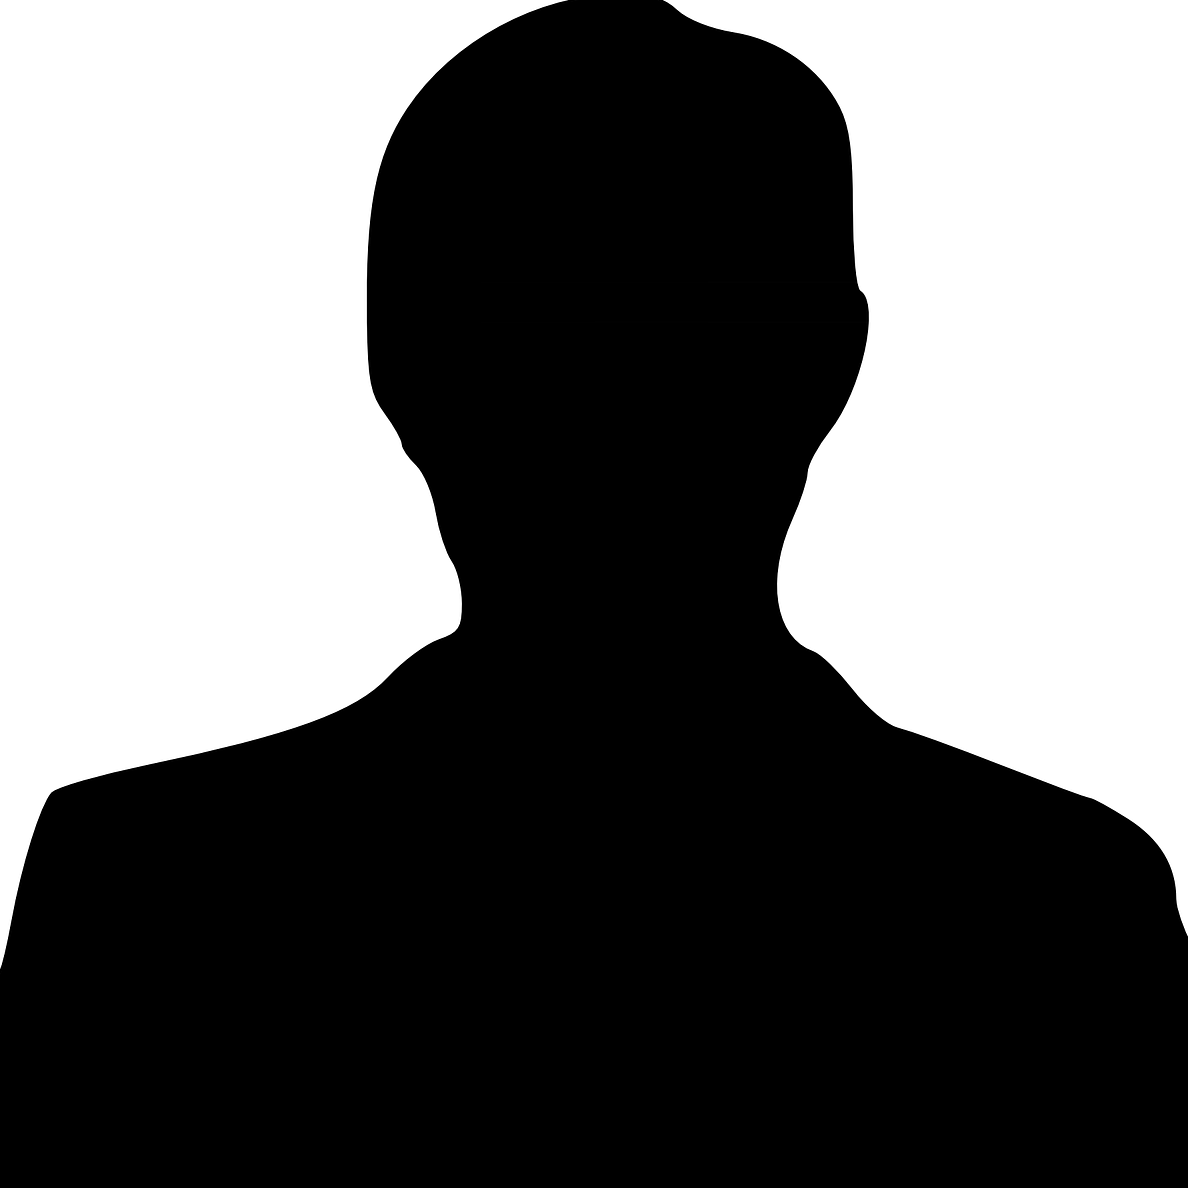
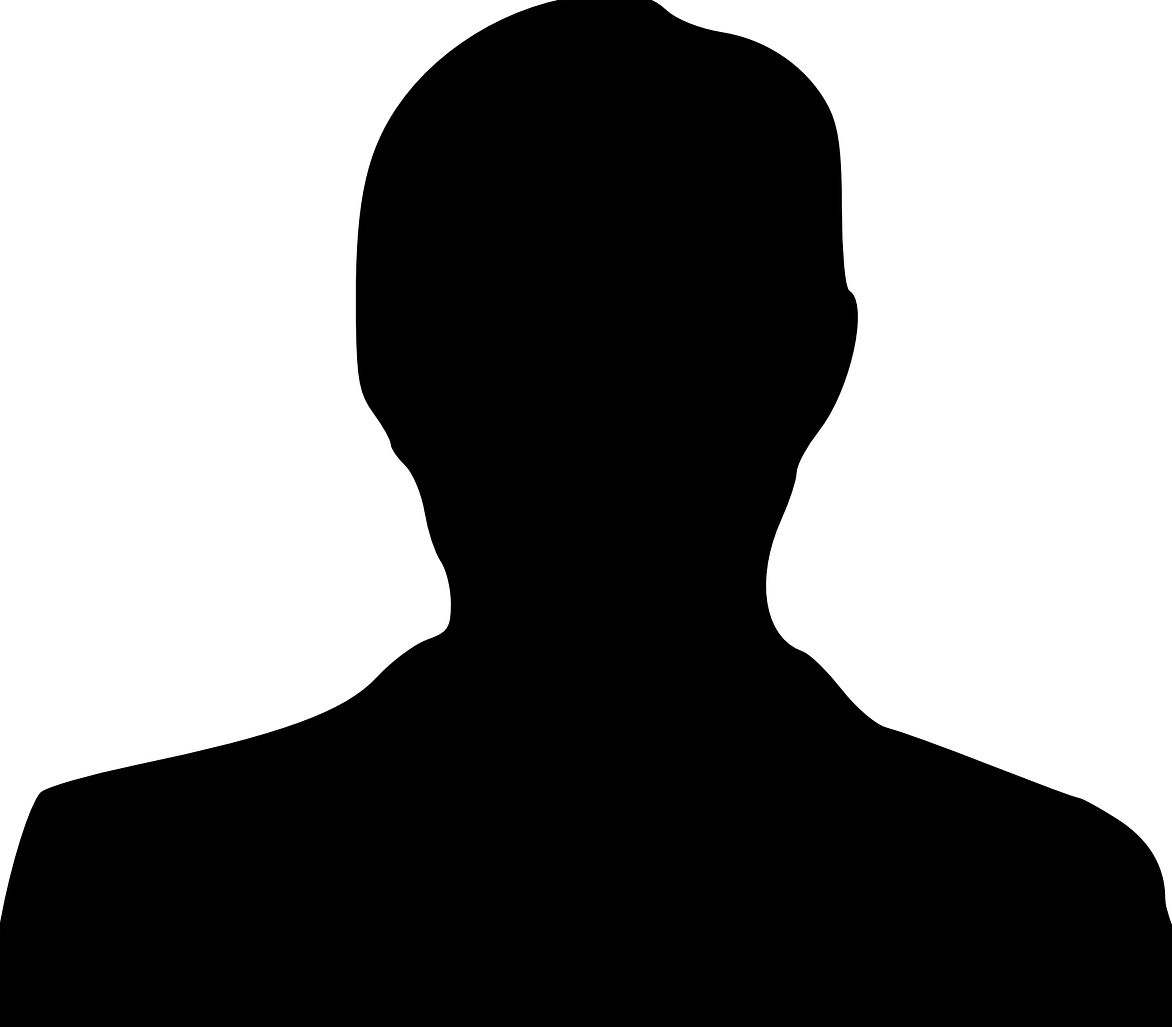
fix image size

diff --git a/public/content/aboutcontent.html b/public/content/aboutcontent.html
@@ -10,7 +10,7 @@
                 </div>
                 <div class="col-sm-4 text-center">
                     <div class = "team-box">
-                        <img class="img-responsive img-circle" src="img/silhouette2.png" alt="" style="margin: auto;">
+                        <img class="img-responsive img-circle" src="img/silhouette2.png" alt="" style="height:271px; max-height: 336px; max-width:336px; width: 263px; margin:auto;">
                         <h3>Shu
                         </h3>
                         <h5>Stylist
@@ -26,14 +26,12 @@
                             </div>
 
                         </div>
-                    </div>
-                        
-                    
-                    
+                    </div> 
                 </div>
+
                 <div class="col-sm-4 text-center">
                     <div class = "team-box">
-                        <img class="img-responsive img-circle" src="img/silhouette1.png" alt="" style="margin: auto;">
+                        <img class="img-responsive img-circle" src="img/silhouette1.png" alt="" style="height:271px; max-height: 336px; max-width:336px; width: 263px; margin:auto;">
                         <h3>Michael
                         </h3>
                         <h5>Stylist
@@ -51,9 +49,10 @@
                         </div>
                     </div>
                 </div>
+
                 <div class="col-sm-4 text-center">
                     <div class = "team-box">
-                        <img class="img-responsive img-circle" src="img/silhouette2.png" alt="" style="margin: auto;" >
+                        <img class="img-responsive img-circle" src="img/silhouette2.png" alt="" style="height:271px; max-height: 336px; max-width:336px; width: 263px; margin:auto;" >
                         <h3>Fei
                         </h3>
                         <h5>Stylist
@@ -71,6 +70,7 @@
                         </div>
                     </div>
                 </div>
+                
                 <div class="clearfix"></div>
             </div>
         </div>

diff --git a/public/css/wfbs_custom.css b/public/css/wfbs_custom.css
@@ -256,7 +256,7 @@ a{
     border-radius: 5px;
     background-color: white;
     color: black;
-    padding: 14px 28px;
+
     font-size: 16px;
     cursor: pointer;
   }
@@ -334,6 +334,7 @@ a{
 }
 .team-box{
     border: solid #000 5px;
+    margin-bottom: 30px;
     padding: 15px;
     margin-top: 15px;
 }
